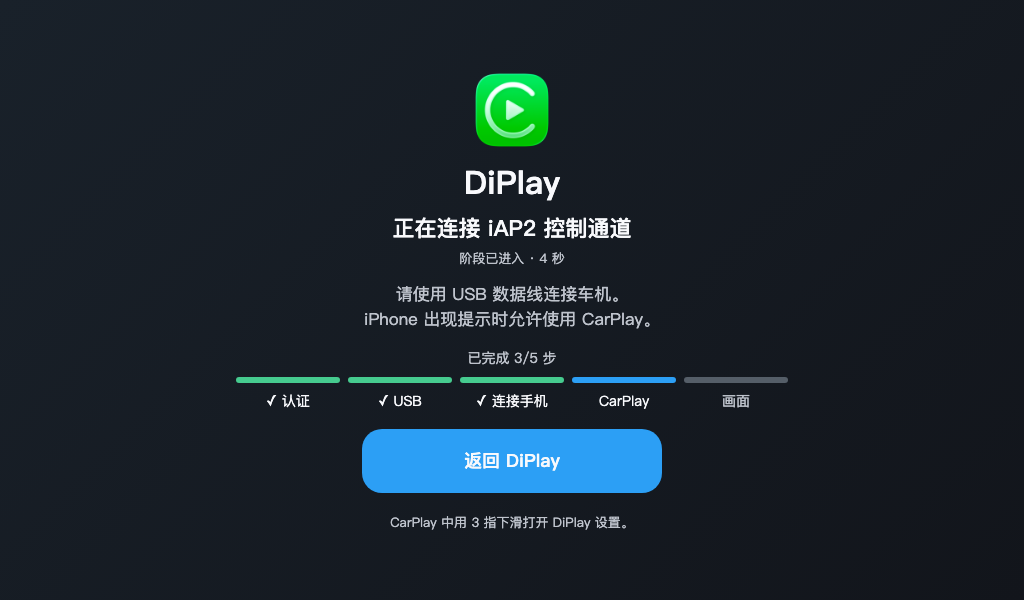
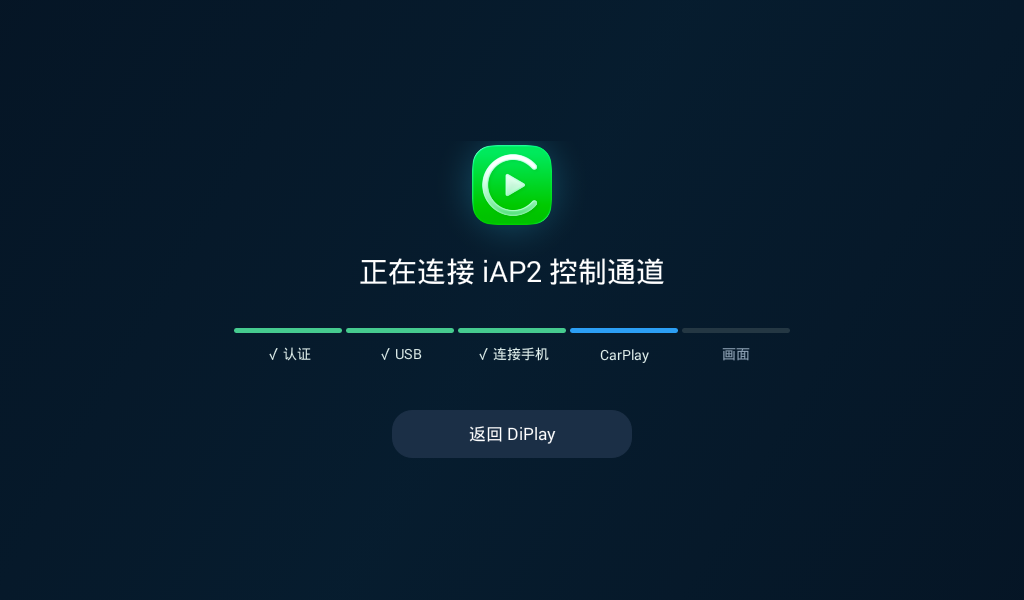
修正README连接页预览图

Changed region(s): [[0.2188, 0.12, 0.7812, 0.9]]

diff --git a/README.md b/README.md
@@ -4,7 +4,7 @@ DiPlay-Nissan 基于 [DiPlay](https://github.com/shihabal3amri/DiPlay) 和 [DiPl
 
 ## 界面预览
 
-以下预览展示设置总览、音频控制，以及无线和 USB CarPlay 的连接步骤。
+以下预览展示设置总览、音频控制，以及当前应用实际运行时的连接页面：无线蓝牙阶段和 USB iAP2 控制通道阶段。
 
 | 设置总览 | 音频设置 |
 |:---:|:---:|
